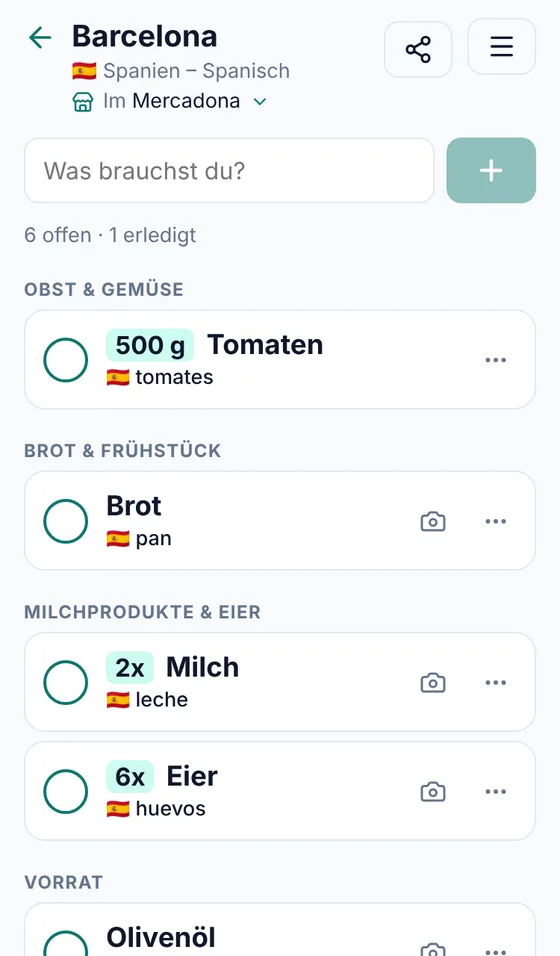
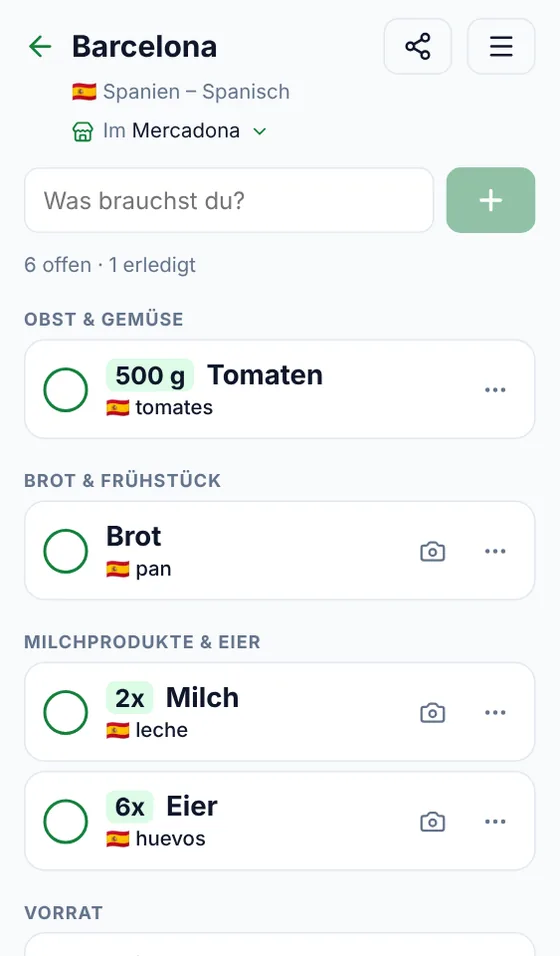
Akzentfarbe Frischgrün statt Petrol, Landingpage-Fotos per Skript, Planungsdokument für regelmässige Prüfungen (D-104, R-001)
- Farben in App, Landingpages, festen Seiten, theme-color; App-Symbole umgefärbt, Vorschaubild neu
- npm run landing:shots erzeugt die Landingpage-Fotos aus Beispieldaten
- docs/05-pruefungen.md mit R-001 (ersetzt S-059)

Claude-Session: https://claude.ai/code/session_01Nfj8wFTH61Pbk1V37FjfSs

diff --git a/scripts/landing-shots.ts b/scripts/landing-shots.ts
@@ -1,0 +1,61 @@
+// Erzeugt public/landing/<de|en>-<1|2|3>.webp aus Beispieldaten (R-001):
+// 1 = Liste „Barcelona“ im Laden, 2 = Vorschläge beim Tippen, 3 = Karte „Dem Personal zeigen“.
+import { test } from '@playwright/test'
+
+const LIST = '11111111-2222-3333-4444-555555555555'
+const SHOTS = {
+  de: { profile: { name: 'Tobias', lang: 'de' }, typing: 'Ra', staff: /Personal/, items: [['500 g', 'Tomaten', 'tomaten'], [null, 'Brot', 'brot'], ['2', 'Milch', 'milch'], ['6', 'Eier', 'eier'], [null, 'Olivenöl', 'olivenoel'], [null, 'Himbeeren tiefgekühlt', 'himbeeren'], [null, 'Wasser', 'wasser']] },
+  en: { profile: { name: 'Tobias', lang: 'en' }, typing: 'Cre', staff: /staff/, items: [['500 g', 'Tomatoes', 'tomaten'], [null, 'Bread', 'brot'], ['2', 'Milk', 'milch'], ['6', 'Eggs', 'eier'], [null, 'Olive oil', 'olivenoel'], [null, 'Frozen raspberries', 'himbeeren'], [null, 'Water', 'wasser']] },
+} as const
+
+for (const [lang, cfg] of Object.entries(SHOTS)) {
+  test.describe(lang, () => {
+    test.use({
+      viewport: { width: 375, height: 640 },
+      deviceScaleFactor: 1.5,
+      locale: lang === 'de' ? 'de-CH' : 'en-GB',
+      permissions: ['geolocation'],
+      geolocation: { latitude: 41.39, longitude: 2.17, accuracy: 10 },
+    })
+    test(`Landingpage-Fotos ${lang}`, async ({ page }) => {
+      const json = (b: unknown) => ({ status: 200, contentType: 'application/json', headers: { 'access-control-allow-origin': '*' }, body: JSON.stringify(b) })
+      await page.route('**/*', (r) => (r.request().url().startsWith('http://localhost') ? r.continue() : r.abort()))
+      await page.route(/nominatim/, (r) => r.fulfill(json({ address: { country_code: 'es' } })))
+      await page.route(/interpreter/, (r) => r.fulfill(json({ elements: [{ type: 'node', id: 1, lat: 41.39002, lon: 2.17, tags: { shop: 'supermarket', name: 'Mercadona', brand: 'Mercadona', opening_hours: 'Mo-Sa 09:00-21:30' } }] })))
+      await page.clock.setFixedTime(new Date(2026, 10, 23, 11, 0))
+      await page.addInitScript(
+        ({ id, cfg }) => {
+          if (sessionStorage.getItem('seeded')) return
+          sessionStorage.setItem('seeded', '1')
+          const now = new Date(2026, 10, 23, 10, 50).toISOString()
+          const items = cfg.items.map(([qty, text, conceptId], n) => ({ id: `00000000-0000-0000-0000-0000000000${10 + n}`, listId: id, text, lang: cfg.profile.lang, conceptId, qty, localOverride: null, checked: false, deleted: false, author: 'Tobias', createdAt: now, updatedAt: now }))
+          localStorage.setItem('rl:locConsent', 'yes')
+          localStorage.setItem('rl:profile', JSON.stringify(cfg.profile))
+          localStorage.setItem('rl:lists', JSON.stringify([id]))
+          localStorage.setItem('rl:list:' + id, JSON.stringify({ list: { id, name: 'Barcelona', country: 'ES', updatedAt: now }, items }))
+        },
+        { id: LIST, cfg },
+      )
+      await page.goto(`/#/l/${LIST}`)
+      // Ohne Supabase zeigt die App „nicht verbunden“: für die Fotos ausblenden
+      await page.addStyleTag({ content: '.sync-badge { display: none !important }' })
+      await page.waitForTimeout(1500)
+      // Wasser abhaken: Einkauf beginnt, Ladenzeile zeigt „Im Mercadona“ (D-078)
+      await page.locator('.item', { hasText: cfg.items[6][1] }).locator('.check').click()
+      await page.waitForTimeout(2500)
+      const shot = async (n: number) => {
+        await page.evaluate(() => window.scrollTo(0, 0))
+        await page.waitForTimeout(600)
+        await page.screenshot({ path: `public/landing/${lang}-${n}.png` })
+      }
+      await shot(1)
+      await page.locator('.add input').pressSequentially(cfg.typing, { delay: 40 })
+      await shot(2)
+      await page.locator('.add input').fill('')
+      await page.locator('body').click({ position: { x: 5, y: 630 } })
+      await page.locator('.item', { hasText: cfg.items[4][1] }).getByRole('button', { name: /Mehr|More/ }).click()
+      await page.getByRole('menuitem', { name: cfg.staff }).click()
+      await shot(3)
+    })
+  })
+}

diff --git a/public/de/index.html b/public/de/index.html
@@ -12,7 +12,7 @@
     <link rel="alternate" hreflang="x-default" href="https://cartontheroad.app/en/" />
     <link rel="icon" type="image/svg+xml" href="/logo-transparent.svg" />
     <link rel="apple-touch-icon" href="/apple-touch-icon.png" />
-    <meta name="theme-color" content="#0f766e" />
+    <meta name="theme-color" content="#15803d" />
     <meta property="og:type" content="website" />
     <meta property="og:site_name" content="Cart on the Road" />
     <meta property="og:title" content="Cart on the Road – die Einkaufsliste für die Reise" />
@@ -38,7 +38,7 @@
 
       <section class="features">
         <div class="feature">
-          <img src="/landing/de-2.webp" width="375" height="640" alt="Eingabe „Ra“ mit Vorschlägen: Rahm → nata, Rucola → rúcula" />
+          <img src="/landing/de-2.webp" width="375" height="640" alt="Eingabe „Ra“ mit Vorschlägen: Rahm → nata, Rauke → rúcula" />
           <h2>In deiner Sprache schreiben</h2>
           <p>Beim Tippen siehst du gleich den Begriff im Reiseland. Mengen wie „2 Milch“ oder „500 g Tomaten“ erkennt die App.</p>
         </div>

diff --git a/src/index.css b/src/index.css
@@ -4,8 +4,8 @@
   --text: #0f172a;
   --muted: #64748b;
   --line: #e2e8f0;
-  --accent: #0f766e;
-  --accent-soft: #ccfbf1;
+  --accent: #15803d;
+  --accent-soft: #dcfce7;
   --warn: #b45309;
   --warn-soft: #fef3c7;
   --radius: 14px;
@@ -22,8 +22,8 @@
     --text: #e5e7eb;
     --muted: #94a3b8;
     --line: #1f2937;
-    --accent: #2dd4bf;
-    --accent-soft: #134e4a;
+    --accent: #4ade80;
+    --accent-soft: #14532d;
     --warn: #fbbf24;
     --warn-soft: #422006;
   }
@@ -129,7 +129,7 @@ button.primary {
 }
 @media (prefers-color-scheme: dark) {
   button.primary {
-    color: #042f2e;
+    color: #052e16;
   }
 }
 button.primary:disabled {
@@ -1171,7 +1171,7 @@ button.scanner-alt {
   flex: 1 1 auto;
 }
 .undo-bar .link {
-  color: #5eead4;
+  color: #86efac;
   font-weight: 700;
   white-space: nowrap;
 }

diff --git a/index.html b/index.html
@@ -10,7 +10,7 @@
     <meta name="apple-mobile-web-app-title" content="Cart" />
     <meta name="apple-mobile-web-app-status-bar-style" content="default" />
     <meta name="viewport" content="width=device-width, initial-scale=1.0, viewport-fit=cover" />
-    <meta name="theme-color" content="#0f766e" />
+    <meta name="theme-color" content="#15803d" />
     <title>Cart on the Road</title>
     <meta name="description" content="Die Einkaufsliste für die Reise: Du schreibst in deiner Sprache, im Laden steht jeder Artikel in der Landessprache. Gratis, ohne Konto, mit anderen teilbar." />
     <!-- Die App selbst nicht in Suchergebnissen: dort sollen die Startseiten /de/ und /en/ erscheinen (D-091). Vorschau beim Teilen bleibt. -->

diff --git a/public/landing/landing.css b/public/landing/landing.css
@@ -10,8 +10,8 @@
   --text: #0f172a;
   --muted: #64748b;
   --line: #e2e8f0;
-  --accent: #0f766e;
-  --accent-soft: #ccfbf1;
+  --accent: #15803d;
+  --accent-soft: #dcfce7;
   color-scheme: light dark;
 }
 @media (prefers-color-scheme: dark) {
@@ -21,8 +21,8 @@
     --text: #e5e7eb;
     --muted: #94a3b8;
     --line: #1f2937;
-    --accent: #2dd4bf;
-    --accent-soft: #134e4a;
+    --accent: #4ade80;
+    --accent-soft: #14532d;
   }
 }
 * {
@@ -106,7 +106,7 @@ h1 {
 }
 @media (prefers-color-scheme: dark) {
   .cta {
-    color: #042f2e;
+    color: #052e16;
   }
 }
 .small {

diff --git a/public/en/index.html b/public/en/index.html
@@ -12,7 +12,7 @@
     <link rel="alternate" hreflang="x-default" href="https://cartontheroad.app/en/" />
     <link rel="icon" type="image/svg+xml" href="/logo-transparent.svg" />
     <link rel="apple-touch-icon" href="/apple-touch-icon.png" />
-    <meta name="theme-color" content="#0f766e" />
+    <meta name="theme-color" content="#15803d" />
     <meta property="og:type" content="website" />
     <meta property="og:site_name" content="Cart on the Road" />
     <meta property="og:title" content="Cart on the Road – the shopping list for your trip" />

diff --git a/scripts/landing-shots.config.ts b/scripts/landing-shots.config.ts
@@ -1,0 +1,14 @@
+// Bildschirmfotos für die Landingpages neu erzeugen (R-001): npm run landing:shots
+// Nutzt denselben Build ohne Supabase wie die Oberflächentests.
+import { defineConfig } from '@playwright/test'
+import base from '../playwright.config'
+
+export default defineConfig({
+  ...base,
+  testDir: '.',
+  testMatch: 'landing-shots.ts',
+  retries: 0,
+  reporter: 'list',
+  // Befehl im Projektordner ausführen, nicht in scripts/
+  webServer: { ...(base.webServer as object), cwd: '..' } as typeof base.webServer,
+})

diff --git a/src/staticPages.ts b/src/staticPages.ts
@@ -39,7 +39,7 @@ function layout(lang: Lang, page: Page, title: string, description: string, body
     <link rel="alternate" hreflang="x-default" href="${BASE}${PATHS[page].en}" />
     <link rel="icon" type="image/svg+xml" href="/logo-transparent.svg" />
     <link rel="apple-touch-icon" href="/apple-touch-icon.png" />
-    <meta name="theme-color" content="#0f766e" />
+    <meta name="theme-color" content="#15803d" />
     <link rel="stylesheet" href="/landing/landing.css" />
   </head>
   <body>

diff --git a/vite.config.ts b/vite.config.ts
@@ -80,7 +80,7 @@ export default defineConfig({
         name: 'Cart on the Road – Einkaufsliste für Reisen',
         short_name: 'Cart',
         description: 'Geteilte Einkaufsliste, die jeden Artikel in der Landessprache zeigt.',
-        theme_color: '#0f766e',
+        theme_color: '#15803d',
         background_color: '#f8fafc',
         display: 'standalone',
         icons: [

diff --git a/scripts/landing-webp.py b/scripts/landing-webp.py
@@ -1,0 +1,7 @@
+# Wandelt die Fotos aus landing-shots.ts in WebP um (560 × 956, wie in den Landingpages angegeben) und löscht die PNG (R-001)
+from pathlib import Path
+from PIL import Image
+for png in sorted(Path('public/landing').glob('*-[123].png')):
+    Image.open(png).convert('RGB').resize((560, 956), Image.LANCZOS).save(png.with_suffix('.webp'), quality=82, method=6)
+    png.unlink()
+    print(png.with_suffix('.webp'))

diff --git a/docs/04-technische-schulden.md b/docs/04-technische-schulden.md
@@ -48,5 +48,4 @@ Stand: 2026-11-22 · Nur Schulden, die aktuell im Code bestehen.
 | S-056 | Die Ladenlogik (`src/lib/nearby.ts` und `src/ui/list/ShopBar.tsx`, zusammen rund 830 Zeilen) verteilt sich auf viele Schwellen aus D-033, D-055, D-078, D-099 bis D-103: Radien, Wartezeiten, Ablauf der Wahl, „Im Laden“, offene Läden zuerst. Die Regeln stecken grossteils in Effekten der Komponente und sind nur über Oberflächentests mit nachgebildeten Antworten geprüft. | Änderungen haben leicht Nebenwirkungen (z. B. Suche zu oft, Laden springt zurück), die erst unterwegs auffallen. | Entscheidungen als reine Funktionen herauslösen („Welcher Laden wird angezeigt?“, „Neu suchen?“, „Wahl verwerfen?“) und mit Unit-Tests über die Schwellen abdecken. | mittel |
 | S-057 | Wissen steckt in Listen im Code, die von Hand gepflegt werden: Ketten-Namen (D-100), Merkmal-Wörter samt Tippfehlern in 11 Sprachen (D-098), Abteilungsreihenfolge (S-009). Die Erkennung arbeitet mit Wortanfängen („tk“, „bio“), Fehltreffer in anderen Sprachen sind nicht systematisch geprüft. | Fehlende Ketten oder Fehltreffer fallen erst auf, wenn jemand sie meldet. | Ketten-Namen und Merkmal-Wörter in die Wörterbuch-Dateien verschieben, damit das Wörterbuch-Feedback (D-059) sie mit abdeckt; Test, der jedes Merkmal-Wort gegen alle Begriffe der Sprache auf Fehltreffer prüft. | niedrig |
 | S-058 | Alle Stile stehen in einer Datei (`src/index.css`, rund 1550 Zeilen) mit vielen nachträglichen Ausnahmen (`:has(…)`, negative Ränder). Einige Regeln werden nicht mehr verwendet (`.home-actions`, `.new-list-toggle`, `.sync-error`, `.sync-offline`, `.sync-synced`, `.term-btn`). | Änderungen am Aussehen wirken leicht an unerwarteten Stellen; tote Regeln erschweren das Lesen. | Tote Regeln entfernen; Stile nach Bereichen aufteilen (Liste, Laden, Startseite, Blätter). | niedrig |
-| S-059 | Die Bildschirmfotos der Landingpages (`public/landing/*.webp`) sind von Hand erstellt. Seit der Ladenzeile in eigener Zeile (D-103) und den Merkmal-Symbolen (D-098) zeigen sie nicht mehr den aktuellen Stand. | Die Website zeigt eine ältere App. | Skript (Playwright), das die Fotos aus Beispieldaten in beiden Sprachen neu erzeugt; nach grösseren Änderungen an der Oberfläche ausführen. | niedrig |
 | S-060 | Alle Oberflächentests stehen in einer Datei (`e2e/app.spec.ts`, rund 950 Zeilen) und warten teils mit festen Pausen (`waitForTimeout`). | Ein Lauf dauert etwa eine Minute; feste Pausen machen Tests auf langsamen Rechnern (GitHub) wackelig und verlängern sie. | Nach Bereichen aufteilen (Liste, Laden, Teilen, Wörterbuch), Hilfsfunktionen auslagern, feste Pausen durch Warten auf einen Zustand ersetzen. | niedrig |
